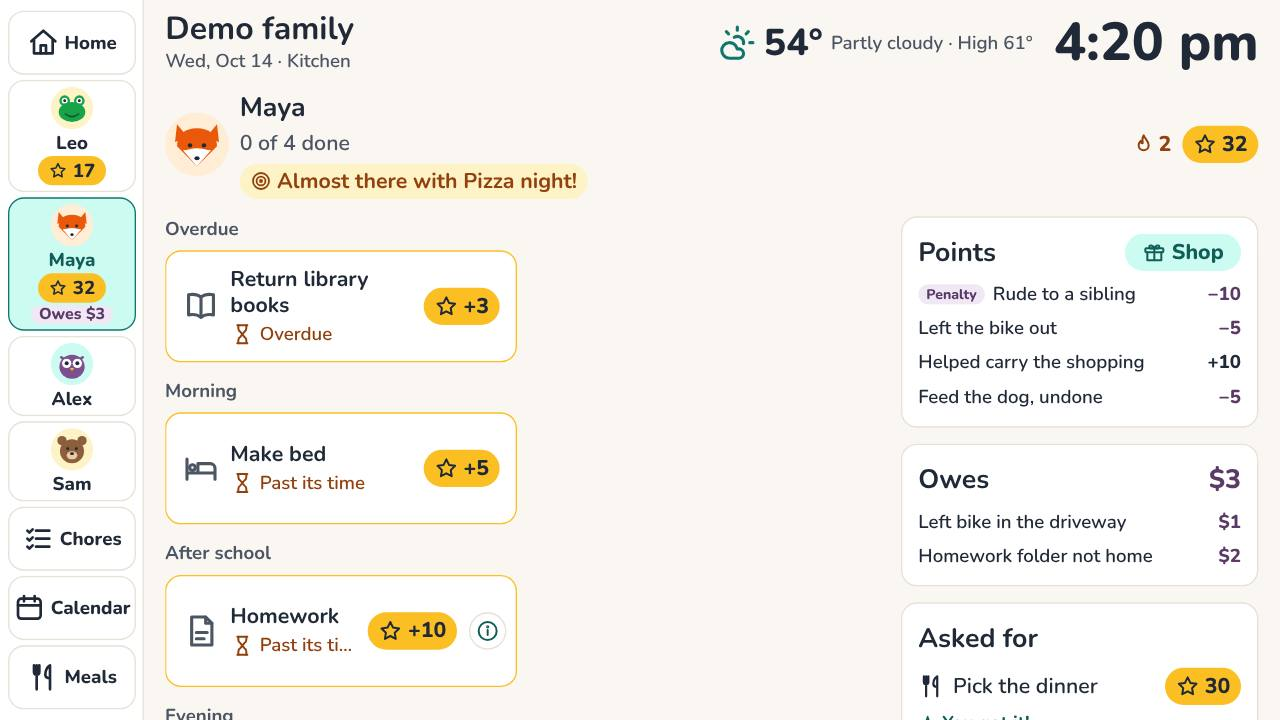
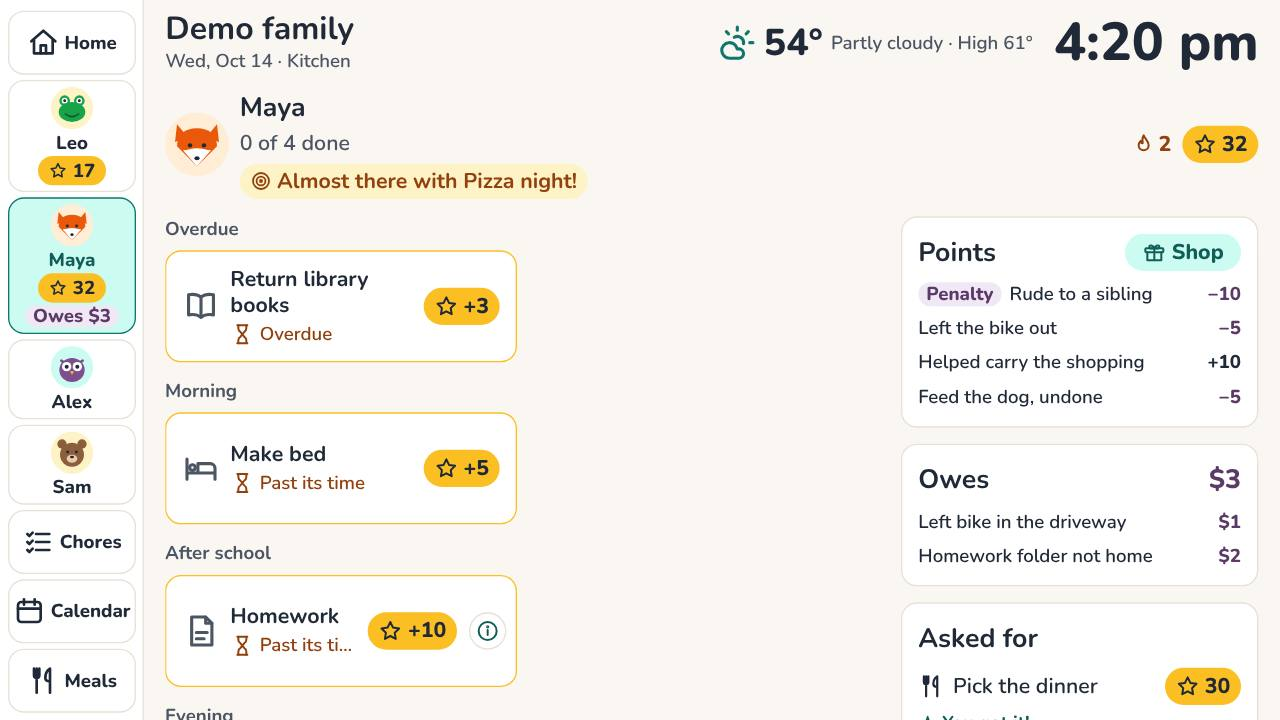
[PTS-09] WP-120: board penalty text at 28 px, and a negative balance that fits the rail (D-156)
The board's Penalty tag and the rail's "Owes $3" are at the board's 28 px minimum, not the mockup's
22 and 24 px. A negative balance in the rail now reads "−8" (PointsChip compact) instead of
"−8 to earn back", which ran past the rail's edge; the person's own screen keeps the full words.
The dev board's ?penalties=below shows points below zero after a penalty, for the side-by-side.
D-156 gains points below zero and the rail's chip.

Claude-Session: https://claude.ai/code/session_019Ro1JjPphfmy8w2XBv9LUj

diff --git a/e2e/ui/penalties.spec.ts b/e2e/ui/penalties.spec.ts
@@ -40,8 +40,33 @@ test.describe('the board', () => {
       .first()
       .evaluate((el) => parseFloat(getComputedStyle(el).fontSize));
     expect(size, `the Owes card's text is ${size}px`).toBeGreaterThanOrEqual(28);
+    // The tag and the rail's chip are board text too.
+    for (const el of [
+      points.first().locator('.fw-today__penalty-tag'),
+      people(page).locator('[data-owes]'),
+    ]) {
+      const px = await el.evaluate((e) => parseFloat(getComputedStyle(e).fontSize));
+      expect(px, `the penalty's tag or chip is ${px}px`).toBeGreaterThanOrEqual(28);
+    }
     const axe = await new AxeBuilder({ page }).include('.fw-today__owes').analyze();
     expect(axe.violations.map((v) => v.id)).toEqual([]);
+  });
+
+  test('[PTS-09-k] points below zero after a penalty: "to earn back" on Maya\'s screen, "−8" in the rail, nothing past its edge', async ({
+    page,
+  }) => {
+    await open(page, '/dev/board?penalties=below');
+    const pill = people(page).locator('[data-pill-balance="-8"]');
+    await expect(pill).toHaveText('−8');
+    const rail = await people(page).boundingBox();
+    const box = await pill.boundingBox();
+    expect(box!.x + box!.width, "the rail's chip stays inside the rail").toBeLessThanOrEqual(
+      rail!.x + rail!.width,
+    );
+    await people(page).getByRole('button', { name: 'Maya', exact: true }).click();
+    await expect(
+      page.locator('.fw-today__me, main').getByText('−8 to earn back').first(),
+    ).toBeVisible();
   });
 
   test('[PTS-09-k] with nothing owed, or penalties off, there is no Owes card and no chip', async ({

diff --git a/apps/web/app/dev/board/fixture.ts b/apps/web/app/dev/board/fixture.ts
@@ -713,7 +713,9 @@ export function withRepeating(
  * [PTS-09] Penalties on (WP-120, the approved mockup): Sam took 10 points from Maya for "Rude to a
  * sibling" today, and Maya owes $3 on two money penalties, oldest first.
  */
-export function withPenalties(s: BoardSnapshot, now: Date): BoardSnapshot {
+export function withPenalties(s: BoardSnapshot, now: Date, below = false): BoardSnapshot {
+  // ?penalties=below: Maya's points below zero after the penalty, as points to earn back (D-154).
+  const balance = (b: number) => (below ? -8 : b - 10);
   return {
     ...s,
     members: s.members.map((m) =>
@@ -721,7 +723,7 @@ export function withPenalties(s: BoardSnapshot, now: Date): BoardSnapshot {
         ? {
             ...m,
             points: {
-              balance: m.points.balance - 10,
+              balance: balance(m.points.balance),
               recent: [
                 {
                   id: 'p-pen',
@@ -733,7 +735,7 @@ export function withPenalties(s: BoardSnapshot, now: Date): BoardSnapshot {
                 ...m.points.recent,
               ].slice(0, 5),
             },
-            available: (m.available ?? 0) - 10,
+            available: below ? -8 : (m.available ?? 0) - 10,
             owes: [
               { id: 'pen-bike', reason: 'Left bike in the driveway', owed: 100 },
               { id: 'pen-folder', reason: 'Homework folder not home', owed: 200 },

diff --git a/apps/web/app/dev/board/page.tsx b/apps/web/app/dev/board/page.tsx
@@ -24,7 +24,8 @@ import { KITCHEN_SLEEP } from './fixture';
 // took that Realtime never reports, shown by the board's own read (WP-110: ?missed=1); the grocery list
 // (WP-104: ?groceries=1, or ?groceries=empty for one emptied; none by default, no rail button; WP-107: ?groceries=full
 // for Maya's 5 asks waiting, ?groceries=long for 35 things).
-// [PTS-09] Penalties on (WP-120: ?penalties=1, Maya's points penalty "Rude to a sibling" and the $3 she owes).
+// [PTS-09] Penalties on (WP-120: ?penalties=1, Maya's points penalty "Rude to a sibling" and the $3 she owes;
+// ?penalties=below, the same with her points below zero, as points to earn back).
 export const metadata: Metadata = { title: 'Board Today', robots: { index: false } };
 
 export default async function DevBoardPage({
@@ -120,7 +121,9 @@ export default async function DevBoardPage({
         }
         missed={params.missed === '1'}
         groceries={params.groceries}
-        penalties={params.penalties === '1'}
+        penalties={
+          params.penalties === '1' ? 'on' : params.penalties === 'below' ? 'below' : undefined
+        }
       />
     </div>
   );

diff --git a/packages/ui/src/PointsChip.tsx b/packages/ui/src/PointsChip.tsx
@@ -7,12 +7,23 @@ export interface PointsChipProps {
   /** Show a sign, as on a tile ("+5"), rather than a balance ("120"). */
   signed?: boolean;
   size?: 'board' | 'admin';
+  /**
+   * [PTS-09] A narrow place (the board's rail): a negative balance as "−8" in the same calm tint,
+   * without "to earn back", which the person's own screen says (WP-120).
+   */
+  compact?: boolean;
 }
 
-export function PointsChip({ points, signed, size = 'board' }: PointsChipProps) {
+export function PointsChip({ points, signed, size = 'board', compact = false }: PointsChipProps) {
   const negative = points < 0;
   const value = Math.abs(points).toLocaleString('en-US');
-  const text = negative ? `−${value} to earn back` : signed ? `+${value}` : value;
+  const text = negative
+    ? compact
+      ? `−${value}`
+      : `−${value} to earn back`
+    : signed
+      ? `+${value}`
+      : value;
   return (
     <span className={`fw-points${negative ? ' fw-points--negative' : ''}`} data-size={size}>
       <Icon name="star" size={size === 'board' ? 36 : 20} />

diff --git a/apps/web/app/dev/board/dev-board.tsx b/apps/web/app/dev/board/dev-board.tsx
@@ -71,7 +71,7 @@ export function DevBoard({
   perfect,
   missed = false,
   groceries,
-  penalties = false,
+  penalties,
 }: {
   theme: Theme;
   stale: boolean;
@@ -106,7 +106,7 @@ export function DevBoard({
   /** [MEAL-18] The grocery list (WP-104): see fixtureGroceries. */
   groceries?: string;
   /** [PTS-09] Penalties on, Maya's points penalty and what she owes (WP-120): see withPenalties. */
-  penalties?: boolean;
+  penalties?: 'on' | 'below';
 }) {
   // The family is made once, as of when the page opened; the clock ticks on like a board's.
   const [opened] = useState(() => new Date());
@@ -153,7 +153,7 @@ export function DevBoard({
     if (repeating) s = withRepeating(s, repeating, opened);
     if (steps) s = withSteps(s, steps);
     if (perfect) s = withPerfect(s, perfect);
-    if (penalties) s = withPenalties(s, opened);
+    if (penalties) s = withPenalties(s, opened, penalties === 'below');
     return celebrate ? reachedBike(s, opened) : s;
   });
   const post = useMemo(() => fixturePost(snapshot), [snapshot]);

diff --git a/packages/ui/src/ui.css b/packages/ui/src/ui.css
@@ -2203,10 +2203,10 @@ html:has(.board) {
   border-radius: var(--r-pill);
   background: var(--missed-tint);
   color: var(--missed-text);
-  font-size: 0.75em;
+  /* Board text is at least 28 px (BRD-03): the list's own size. */
+  font-size: var(--t-small);
   font-weight: 800;
-  line-height: 1.45;
-  vertical-align: 0.1em;
+  line-height: 1.3;
 }
 .fw-today__owed {
   color: var(--missed-text);
@@ -2220,7 +2220,7 @@ html:has(.board) {
   background: var(--missed-tint);
   color: var(--missed-text);
   font-weight: 800;
-  font-size: 0.85em;
+  font-size: var(--t-small);
   white-space: nowrap;
 }
 .fw-today__empty,

diff --git a/packages/ui/src/components.test.tsx b/packages/ui/src/components.test.tsx
@@ -73,6 +73,13 @@ describe('PointsChip', () => {
     expect(negative).toContain('−5 to earn back');
     expect(negative).toContain('fw-points--negative');
   });
+
+  it('[PTS-09-k] in a narrow place, a negative balance is "−8" in the same calm tint', () => {
+    const compact = html(<PointsChip points={-8} compact />);
+    expect(compact).toContain('>−8<');
+    expect(compact).not.toContain('to earn back');
+    expect(compact).toContain('fw-points--negative');
+  });
 });
 
 describe('GoalMeter', () => {

diff --git a/apps/web/app/(board)/board/today.tsx b/apps/web/app/(board)/board/today.tsx
@@ -1142,7 +1142,7 @@ export function Today({
                   data-pill-balance={t.balance(m)}
                   aria-hidden
                 >
-                  <PointsChip points={t.balance(m)} />
+                  <PointsChip points={t.balance(m)} compact />
                 </span>
               ) : null}
               {/* [PTS-09][D-156] What they owe, in sight from everyone's view (WP-120). */}

diff --git a/docs/08-test-strategy.md b/docs/08-test-strategy.md
@@ -282,7 +282,7 @@ Generated from the tests by `python3 docs/check_traceability.py --docs docs --fi
 
 ### 9.1 Coverage summary
 
-**3338** tests: Unit 1041 · DB 1775 · UI 376 · E2E 146. 2815 name at least one ID; 523 name none.
+**3340** tests: Unit 1042 · DB 1775 · UI 377 · E2E 146. 2817 name at least one ID; 523 name none.
 
 | Measure | Count |
 |---|---|
@@ -306,7 +306,7 @@ Area is the domain of the first requirement a test names. Layers: Unit (Vitest, 
 | Area | Unit | DB | UI | E2E | Total |
 |---|---|---|---|---|---|
 | Chores | 144 | 234 | 49 | 35 | 462 |
-| Points | 67 | 155 | 31 | 13 | 266 |
+| Points | 68 | 155 | 32 | 13 | 268 |
 | Goals and rewards | 198 | 140 | 47 | 8 | 393 |
 | Calendar | 67 | 92 | 19 | 5 | 183 |
 | School year | 10 | 43 | 1 | 4 | 58 |
@@ -317,7 +317,7 @@ Area is the domain of the first requirement a test names. Layers: Unit (Vitest, 
 | Admin and members | 27 | 87 | 11 | 15 | 140 |
 | Platform | 205 | 167 | 62 | 18 | 452 |
 | Not named | 58 | 500 | 10 | 1 | 569 |
-| **Total** | **1041** | **1775** | **376** | **146** | **3338** |
+| **Total** | **1042** | **1775** | **377** | **146** | **3340** |
 
 ### 9.3 By requirement
 
@@ -469,7 +469,7 @@ Status: **Covered** (built, and at least one test names it), **Gap** (built, no 
 | PTS-06 | S | Covered | US-1108 | WP-30 | — | U 5 · DB 2 · UI 7 · E2E 2 |
 | PTS-07 | M | Covered | US-1109 | WP-02, WP-04, WP-16 | — | U 2 · DB 15 · E2E 3 |
 | PTS-08 | S | Covered | US-1110 | WP-115 | PTS-08-a, PTS-08-b, PTS-08-c, PTS-08-d, PTS-08-e, PTS-08-f, PTS-08-g, PTS-08-h, PTS-08-i, PTS-08-j, PTS-08-k, PTS-08-l, PTS-08-m | U 12 · DB 17 · UI 5 |
-| PTS-09 | S | Covered | US-1111 | WP-120 | PTS-09-a, PTS-09-b, PTS-09-c, PTS-09-d, PTS-09-e, PTS-09-f, PTS-09-g, PTS-09-h, PTS-09-i, PTS-09-j, PTS-09-k, PTS-09-l, PTS-09-m | U 9 · DB 45 · UI 6 · E2E 1 |
+| PTS-09 | S | Covered | US-1111 | WP-120 | PTS-09-a, PTS-09-b, PTS-09-c, PTS-09-d, PTS-09-e, PTS-09-f, PTS-09-g, PTS-09-h, PTS-09-i, PTS-09-j, PTS-09-k, PTS-09-l, PTS-09-m | U 10 · DB 45 · UI 7 · E2E 1 |
 | PTS-10 | S | Not built | US-1112 | WP-121 | — | — |
 | PTS-11 | S | Not built | US-1113 | WP-122 | — | — |
 | PTS-12 | S | Covered | US-1114 | WP-123 | PTS-12-a, PTS-12-b, PTS-12-c, PTS-12-d | U 1 · DB 1 · UI 2 |
@@ -954,7 +954,7 @@ Test cases and the tests that prove them:
 | PTS-09-h | WP-120 | The board's snapshot: a penalty in the points list with its reason, one taken back left out both ways; what each person owes (cents, with the reason) while penalties are on, and nothing while off; the app reads both | DB, Unit | Unit `apps/web/lib/board.test.ts`: `penalties (WP-120) › [PTS-09-h] reads a penalty in the points list and what someone owes, in cents`<br>DB `supabase/tests/650_penalties.test.sql`: `[PTS-09-h] Maya owes nothing now: one paid, one taken back`<br>DB `supabase/tests/650_penalties.test.sql`: `[PTS-09-h] the board shows a penalty with its reason, and leaves one taken back out both ways`<br>DB `supabase/tests/650_penalties.test.sql`: `[PTS-09-h] what Leo owes shows on the board, with its reason`<br>DB `supabase/tests/650_penalties.test.sql`: `[PTS-09-h] with penalties off, nothing owed shows` |
 | PTS-09-i | WP-120 | The points register lists penalties as their own type, Penalty, a take-back included | DB | DB `supabase/tests/650_penalties.test.sql`: `[PTS-09-i] the points register lists penalties as their own type, a take-back included` |
 | PTS-09-j | WP-120 | Money and points in words ($1, $2.50, $1,000; 1 point, 20 points); a typed amount of money in cents; Give a penalty, Record paid and a new reason checked the way the database will check them; what the database refused, in plain words; what is owed and the history newest first; a penalty named in the ledger, the register and on the board | Unit | Unit `apps/web/lib/penalties.test.ts`: `[PTS-09] penalties in words and money › [PTS-09-j] says money in dollars and points as points`<br>Unit `apps/web/lib/penalties.test.ts`: `[PTS-09] penalties in words and money › [PTS-09-j] reads a typed amount of money in cents`<br>Unit `apps/web/lib/penalties.test.ts`: `[PTS-09] penalties in words and money › [PTS-09-j] checks Give a penalty the way give_penalty() will`<br>Unit `apps/web/lib/penalties.test.ts`: `[PTS-09] penalties in words and money › [PTS-09-j] checks Record paid: up to what is owed`<br>Unit `apps/web/lib/penalties.test.ts`: `[PTS-09] penalties in words and money › [PTS-09-j] checks a new reason`<br>Unit `apps/web/lib/penalties.test.ts`: `[PTS-09] penalties in words and money › [PTS-09-j] says what the database refused, plainly`<br>Unit `apps/web/lib/penalties.test.ts`: `[PTS-09] penalties in words and money › [PTS-09-j] works out what is owed, and the history newest first`<br>Unit `apps/web/lib/penalties.test.ts`: `[PTS-09] penalties in words and money › [PTS-09-j] names a penalty in the ledger, the register and on the board` |
-| PTS-09-k | WP-120 | The board: a child's points list tags a penalty "Penalty" beside its reason; the **Owes** card lists each money penalty still owed with its reason and amount, in board-size text; the rail says "Owes $3"; with nothing owed, or penalties off, no card and no chip | UI | UI `e2e/ui/penalties.spec.ts`: `the board › [PTS-09-k][US-1111] a penalty shows with its reason, and what Maya owes on her screen and in the rail`<br>UI `e2e/ui/penalties.spec.ts`: `the board › [PTS-09-k] with nothing owed, or penalties off, there is no Owes card and no chip` |
+| PTS-09-k | WP-120 | The board: a child's points list tags a penalty "Penalty" beside its reason; the **Owes** card lists each money penalty still owed with its reason and amount, in board-size text; the rail says "Owes $3"; with nothing owed, or penalties off, no card and no chip | UI | UI `e2e/ui/penalties.spec.ts`: `the board › [PTS-09-k][US-1111] a penalty shows with its reason, and what Maya owes on her screen and in the rail`<br>UI `e2e/ui/penalties.spec.ts`: `the board › [PTS-09-k] points below zero after a penalty: "to earn back" on Maya's screen, "−8" in the rail, nothing past its edge`<br>UI `e2e/ui/penalties.spec.ts`: `the board › [PTS-09-k] with nothing owed, or penalties off, there is no Owes card and no chip`<br>Unit `packages/ui/src/components.test.tsx`: `PointsChip › [PTS-09-k] in a narrow place, a negative balance is "−8" in the same calm tint` |
 | PTS-09-l | WP-120 | The admin app: Settings' Penalties tile and page (the on/off as a switch, the reasons, Add a reason in points or money); Home's **Give a penalty** only while on, nobody chosen for the parent, the amount filled in from the reason and what the board will show; a child's **Penalties** with what they owe, Record paid on each, and the history with Take back on each penalty not taken back; the register's Penalty type | UI | UI `e2e/ui/penalties.spec.ts`: `the admin app › [PTS-09-l] Settings: Penalties on, its reasons, and Add a reason`<br>UI `e2e/ui/penalties.spec.ts`: `the admin app › [PTS-09-l][US-1111] Home: Give a penalty fills the amount from the reason and says what the board will show`<br>UI `e2e/ui/penalties.spec.ts`: `the admin app › [PTS-09-l][US-1111] Maya’s Penalties: what she owes, Record paid on each, the history with Take back`<br>UI `e2e/ui/penalties.spec.ts`: `the admin app › [PTS-09-l] the points register lists penalties as their own type` |
 | PTS-09-m | WP-120 | On a preview, a parent turns penalties on, adds a reason, gives a money penalty and a points penalty from Home, records part paid and takes one back on the child's page, and the database agrees at each step | E2E | E2E `e2e/tests/penalties.spec.ts`: `[PTS-09-m][US-1111] a parent turns penalties on, adds a reason, gives, records paid and takes back` |
 | PTS-12-a | WP-123 | The board's words for a points entry: points a parent took away read the reason the parent gave ("Left the iPad on the couch"), as points added do; an adjustment with no reason still reads "A parent changed your points" or "From a parent" | Unit | Unit `apps/web/lib/today.test.ts`: `points on the board › [PTS-12-a] points a parent took away show the reason the parent gave, as points added do` |
@@ -3635,11 +3635,12 @@ UI · 7 tests
 
 #### `e2e/ui/penalties.spec.ts`
 
-UI · 6 tests
+UI · 7 tests
 
 | Test | Names |
 |---|---|
 | `the board › [PTS-09-k][US-1111] a penalty shows with its reason, and what Maya owes on her screen and in the rail` | PTS-09-k, US-1111 |
+| `the board › [PTS-09-k] points below zero after a penalty: "to earn back" on Maya's screen, "−8" in the rail, nothing past its edge` | PTS-09-k |
 | `the board › [PTS-09-k] with nothing owed, or penalties off, there is no Owes card and no chip` | PTS-09-k |
 | `the admin app › [PTS-09-l] Settings: Penalties on, its reasons, and Add a reason` | PTS-09-l |
 | `the admin app › [PTS-09-l][US-1111] Home: Give a penalty fills the amount from the reason and says what the board will show` | PTS-09-l, US-1111 |
@@ -3951,7 +3952,7 @@ Unit · 3 tests
 
 #### `packages/ui/src/components.test.tsx`
 
-Unit · 15 tests
+Unit · 16 tests
 
 | Test | Names |
 |---|---|
@@ -3962,6 +3963,7 @@ Unit · 15 tests
 | `ChoreTile › [NFR-11] titles sit one level below the heading they are under` | NFR-11 |
 | `ChoreTile › [NFR-13] uses admin words in admin views` | NFR-13 |
 | `PointsChip › [NFR-13] shows a balance, a signed award, and a calm negative balance` | NFR-13 |
+| `PointsChip › [PTS-09-k] in a narrow place, a negative balance is "−8" in the same calm tint` | PTS-09-k |
 | `GoalMeter › [NFR-13] always writes the count and percentage, clamped to 0–100` | NFR-13 |
 | `Avatar, Banner, Button › [NFR-13] avatar shows the character, or initials on the member color` | NFR-13 |
 | `Avatar, Banner, Button › [NFR-13] banners pair an icon with words and announce politely` | NFR-13 |

diff --git a/docs/00-README.md b/docs/00-README.md
@@ -178,7 +178,7 @@ Source of truth for IDs is `04`. CI runs `python3 docs/check_traceability.py --d
 | D-151 | **A parent marks a missed or late chore done on time (WP-117), 30 October; built and confirmed by the owner 15 November.** Added at the owner's request, after a chore done away from the board (a child's homework folder, brought home when grandma met the bus) went unticked and counted as missed for a goal. As built, from the mockup the owner approved on 15 November with every recommendation: a parent's **Done on time…** on a chore that is missed, ticked late (after its due time, or on a later day without one) or still open past its due time today, from Today (any past day), the child's page (**Missed or late**, the last 14 days) or a goal's missed day; "On time" by default, which counts for every goal (a goal "by 6:00 pm" on a chore without a due time included), or an earlier time on its day, up to its due time and not after now; chores only (a task is never missed, D-31); credited to the chore's person, or who did it for a shared one; its points restored, its goals and streaks worked out again; a week or goal already settled that it changes asks first ("This makes Maya's week of Nov 9 a win: 10 points") and pays once; "Marked on time by Alex, Nov 13" on Today, the child's page, the goal's day and the points register; the board shows the chore done with no "marked by" line (D-50); **Uncheck** takes it back as for any done chore. Stored on the check-off itself (`chore_completion_event.marked_on_time`, `on_time_at`), so later items (penalties, WP-121) read it from the occurrence's status event. Children and boards can't. **This changes D-102's "A parent's tick after the time doesn't count toward a timed rule": an ordinary late Mark done still doesn't; Mark done on time does.** Claude Code's choices within it: on a goal's day, a chore ticked after the goal's own time ("by 6:00 pm") but on time for its own due time is offered too; on a family goal's day, every child's chore it counts that day is listed. The owner confirmed D-151, its change to D-102 and these choices on 15 November ("approve #194, D-151 confirmed"). |
 | D-154 | **Penalties: a balance a child owes, built up by misses and paid back by goals (WP-120, WP-121, WP-122), 15 November, recorded only; the model confirmed by the owner the same day, with the board showing a penalty's reason.** Added at the owner's request (the owner's words are in `05`, WP-120). The model: **(1) A penalty** is set for one or more people, a tag, or chosen items or goals, with start and end dates, in points or in money. Money is tracked in FamilyWise and paid outside it: FamilyWise has no money ledger, so a parent records what was paid. **(2) A penalty balance** per person and penalty is what they owe: each miss of a linked item (judged at day close) adds the penalty's amount, up to its max; a one-time penalty adds once. **(3) Payback:** a linked goal or reward (for example "a successful week inside the goal") pays back an amount, lowering the balance. While the balance is 0 the payback is paused (there is nothing to pay back); when a new miss makes it more than 0 it is active again. The owner wrote "depleted"; it means "paid back to 0". **(4) In points,** a penalty is a ledger entry of its own type (`penalty`, and `penalty_payback` for what is paid back), next to adjustments (D-49); it is taken at once, so a balance may go below zero as points to earn back (D-49). **(5) One-time penalties:** a parent issues one in the moment, not recurring and not tied to a goal, from Home or the child's page, with a reason from the household's **penalty reasons**, a list a parent adds to and removes from in Settings (each with a default amount). Every penalty, one-time or a rule, has a reason from that list. **(6) The board shows the reason (the owner, 15 November: "The board should show the reason why a penalty was invoked ... This is about responsibility and accountability where it matters."):** a penalty, in points or money, shows on the board with its reason and amount, and what the child owes; this changes D-50 ("never tells anyone off", the reason for points taken away staying in the admin app) for penalties only. A parent's ordinary points adjustment shows its reason too (D-155). Where on the board (the child's own screen, everyone's view) is settled on the mockup. **(7) Confirmed by the owner, 15 November:** a parent's **Mark done on time** (WP-117, D-151) reverses a penalty already accrued for that miss; a day the child was excused (skipped, covered, a day off, no school) never accrues; the points register (WP-115) shows penalty and payback entries as their own types; a household-level on/off in Settings, off by default. |
 | D-155 | **The board shows the reason for every points change a parent makes (WP-123), 15 November, the owner's decision; built 19 November.** Added at the owner's request, asked whether a parent's ordinary points adjustment should show its reason on the board as penalties do (D-154): "They should all show the reason. Transparency". Points a parent takes away show on the board with the reason the parent gave, as points added already do ("Left the iPad on the couch −5"), in the person's points list on their own screen and wherever the board lists points entries. This replaces D-50's "Points a parent took away read only “A parent changed your points”" and the owner's 9 October confirmation that the reason stays off the board, and the matching line in `06` §2 (Voice). The admin app's Take away points form says the reason shows on the board. Entries already posted show their reason too (the reason is already stored with each). Built as its own small item, not with the penalties. |
-| D-156 | **Penalties as built, from the approved mockup (WP-120), 21 November, for the owner to confirm.** The owner approved the one mockup for WP-120 to WP-122 on 21 November. Claude Code's choices on it: **(1) Where the board shows it:** a child's own screen has an **Owes** card (each money penalty still owed, with its reason and amount, and the total); their points list tags a penalty "Penalty" beside its reason; everyone's view shows "Owes $3" under the person's points in the rail. **(2) A points penalty is settled when taken:** it shows in the points and the history but never adds to what is owed; only money is owed in WP-120 (WP-121's misses in points will count as points to earn back, for WP-122 to pay back). **(3) Take back:** a parent takes back a penalty given by mistake from the history; in points a `penalty` entry gives the points back (the ledger stays append-only, D-49), in money nothing is owed on it; the board stops showing both entries. **(4) Record paid is per penalty:** filled in with what is owed on it, any amount from $0.01 up to that, never more. **(5) A penalty reason has a unit and a default amount** (points, or dollars); the unit follows the reason and the amount can be changed each time; removing a reason keeps the penalties given with it, and its name can be used again. **(6) Colour:** penalties and negative amounts on the board's points list in the calm missed tint (Plum), never alarm red. **(7) Money is in dollars ($)**; there is no currency setting. Also: Give a penalty on Home chooses nobody for the parent; Penalties are a tile of their own in Settings, after Tags. |
+| D-156 | **Penalties as built, from the approved mockup (WP-120), 21 November, for the owner to confirm.** The owner approved the one mockup for WP-120 to WP-122 on 21 November. Claude Code's choices on it: **(1) Where the board shows it:** a child's own screen has an **Owes** card (each money penalty still owed, with its reason and amount, and the total); their points list tags a penalty "Penalty" beside its reason; everyone's view shows "Owes $3" under the person's points in the rail. **(2) A points penalty is settled when taken:** taken at once, so a child's points can go below 0, which the board shows as points to earn back (D-154 (4)); it shows in the points and the history but never adds to what is owed; only money is owed in WP-120 (WP-121's misses in points will count as points to earn back, for WP-122 to pay back). **(3) Take back:** a parent takes back a penalty given by mistake from the history; in points a `penalty` entry gives the points back (the ledger stays append-only, D-49), in money nothing is owed on it; the board stops showing both entries. **(4) Record paid is per penalty:** filled in with what is owed on it, any amount from $0.01 up to that, never more. **(5) A penalty reason has a unit and a default amount** (points, or dollars); the unit follows the reason and the amount can be changed each time; removing a reason keeps the penalties given with it, and its name can be used again. **(6) Colour and size:** penalties and negative amounts on the board's points list in the calm missed tint (Plum), never alarm red; the board's Penalty tag and the rail's "Owes $3" at the board's 28 px, larger than the mockup's 22 and 24 px. **(8) A negative balance in the rail** reads "−8" (the same calm tint) without "to earn back", which overflowed the rail; the person's own screen still says "−8 to earn back". **(7) Money is in dollars ($)**; there is no currency setting. Also: Give a penalty on Home chooses nobody for the parent; Penalties are a tile of their own in Settings, after Tags. |
 
 ## Repo layout
 

diff --git a/docs/06-brand-and-style-guide.md b/docs/06-brand-and-style-guide.md
@@ -1,7 +1,7 @@
 # 06 — FamilyWise Brand and Style Guide
 
 > Version 1.18 · Status: built (WP-37, WP-06, WP-11, WP-13, WP-17, WP-19, WP-30, WP-40, WP-20, WP-22, WP-23, WP-35, WP-45, WP-46, WP-47, WP-48, WP-28, WP-51, WP-52)
-> v1.32: penalties (WP-120, D-154, D-156): on the board, a penalty in a child's points list tagged "Penalty" (a pill in the missed tint) beside its reason, negative amounts there in Plum text, the **Owes** card (its total in Plum, each penalty's reason and amount) and "Owes $3" under a person's points in the rail; in the admin app, Settings' Penalties with its on/off switch (`.fw-switch`), Give a penalty's reason chips with their amounts and the line saying what the board will show, and a child's Penalties (§7.2, §7.3). Penalties are never alarm red.
+> v1.32: penalties (WP-120, D-154, D-156): on the board, a penalty in a child's points list tagged "Penalty" (a pill in the missed tint) beside its reason, negative amounts there in Plum text, the **Owes** card (its total in Plum, each penalty's reason and amount) and "Owes $3" under a person's points in the rail; in the admin app, Settings' Penalties with its on/off switch (`.fw-switch`), Give a penalty's reason chips with their amounts and the line saying what the board will show, and a child's Penalties (§7.2, §7.3). Penalties are never alarm red. A negative balance in the rail is the compact chip, "−8" (`PointsChip compact`), as "−8 to earn back" ran past the rail's edge.
 > v1.31: points taken away show the parent's reason on the board, as points added do: "Left the iPad on the couch −5" (§2 Voice, WP-123, D-155, replacing v1.4's "A parent changed your points").
 > v1.30: the set-up pages folded (§7.3, WP-94, D-120, D-133): a count waiting for a parent on a fold's header (the invites waiting) in Sun tint without the sign, 600 weight; a school year's **Archive** last, its button the danger button; Home's **Add a day off** an inner fold.
 > v1.29: Calendars, School menus and the meal library folded (§7.3, WP-93, D-120, D-131): a calendar's colour before its name on its header; Rename set apart as a name field with its button; a menu day's **Change** a 44 px target, beside the day's date and menu; an event its title, then when; the fold's header 64 px tall, padding included, and 56 px inside another fold; on a phone a long title keeps its line and its button goes under it.

diff --git a/docs/04-requirements-traceability.md b/docs/04-requirements-traceability.md
@@ -323,7 +323,7 @@ Stories and Work packages are generated from `03-user-stories.md` and `05-backlo
 | PTS-06 | US-1108 | WP-30 | BRD, API, ADM, DB | wishlist_pin, reward_catalog_item, v_points_balance | U, DB, E2E | U 5 · DB 2 · UI 7 · E2E 2 |
 | PTS-07 | US-1109 | WP-02, WP-04, WP-16 | ADM, DB, RULES | member, points_ledger | DB, E2E | U 2 · DB 15 · E2E 3 |
 | PTS-08 | US-1110 | WP-115 | ADM, DB | points_ledger, points_rule, reward_goal | U, DB, UI | U 12 · DB 17 · UI 5 |
-| PTS-09 | US-1111 | WP-120 | ADM, BRD, DB | points_ledger, household_settings, penalty_reason, penalty, penalty_payment | U, DB, UI, E2E | U 9 · DB 45 · UI 6 · E2E 1 |
+| PTS-09 | US-1111 | WP-120 | ADM, BRD, DB | points_ledger, household_settings, penalty_reason, penalty, penalty_payment | U, DB, UI, E2E | U 10 · DB 45 · UI 7 · E2E 1 |
 | PTS-10 | US-1112 | WP-121 | ADM, RULES, DB | chore_occurrence, points_ledger, member_daily_summary | U, DB, E2E | — |
 | PTS-11 | US-1113 | WP-122 | ADM, RULES, DB | reward_goal, reward_goal_progress, points_ledger | U, DB, E2E | — |
 | PTS-12 | US-1114 | WP-123 | BRD, ADM | points_ledger | U, UI | U 1 · DB 1 · UI 2 |
@@ -350,7 +350,7 @@ Stories and Work packages are generated from `03-user-stories.md` and `05-backlo
 
 - Requirements: **156** · with at least one story: **156** · stories: **138** (P0: 12 · P1: 52 · P2: 30 · P3: 44).
 - With at least one work package: **156** · work packages: **121**.
-- Tests: **3338** (2769 name a requirement) · built requirements with a test: **140 of 140** · known test gaps: **104** (`08` §9.6).
+- Tests: **3340** (2771 name a requirement) · built requirements with a test: **140 of 140** · known test gaps: **104** (`08` §9.6).
 - Generated by `check_traceability.py --fix`; do not edit by hand.
 
 ---
